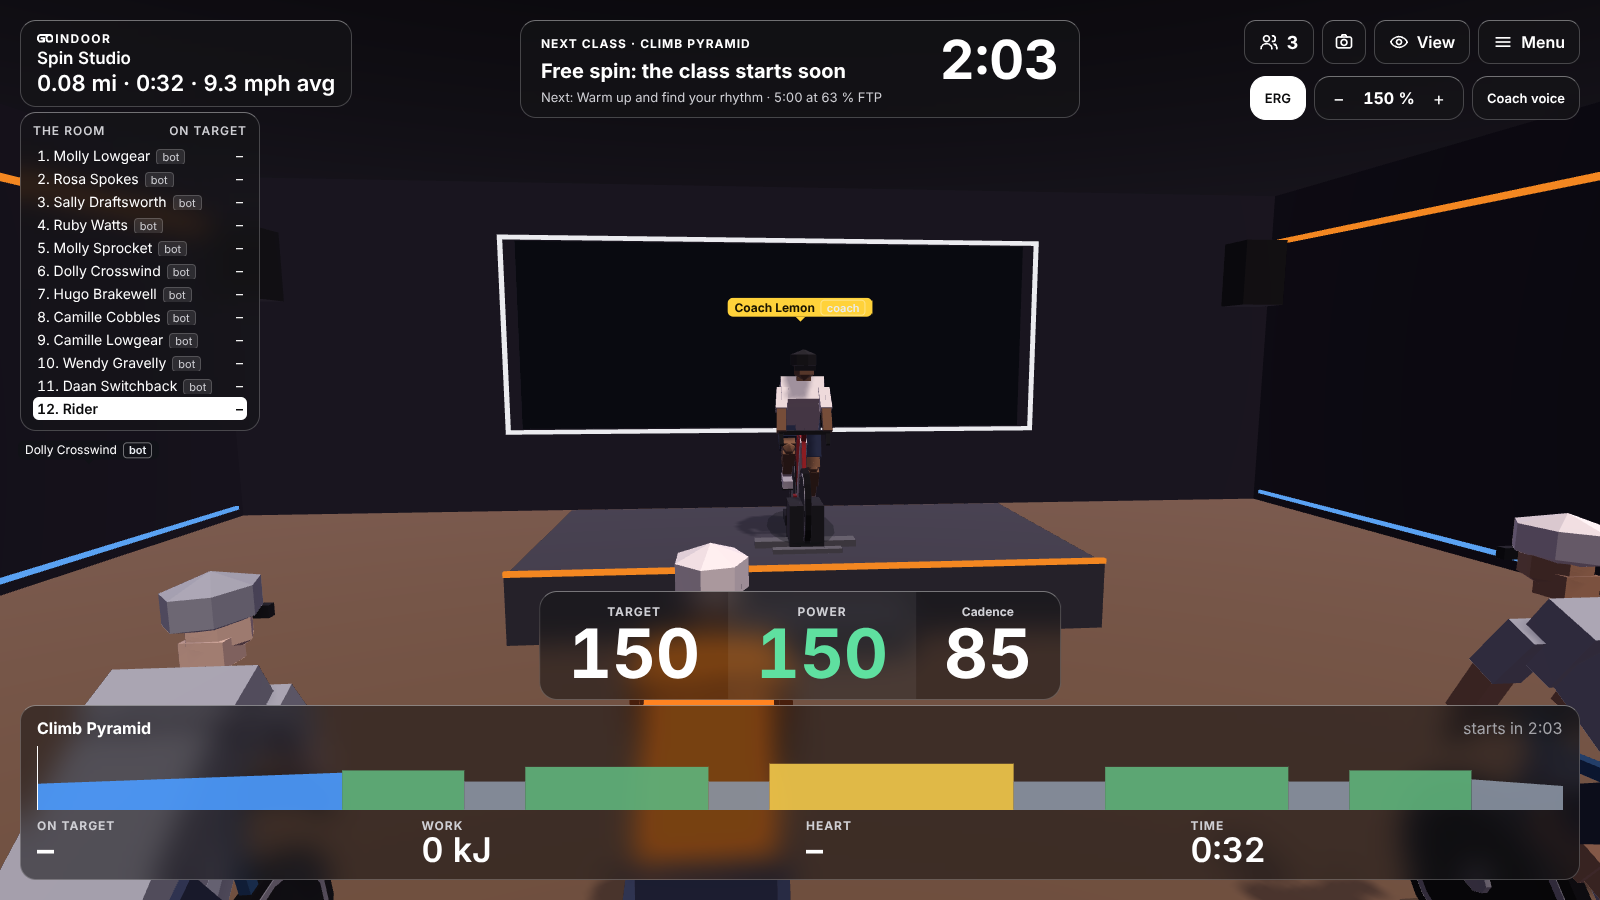
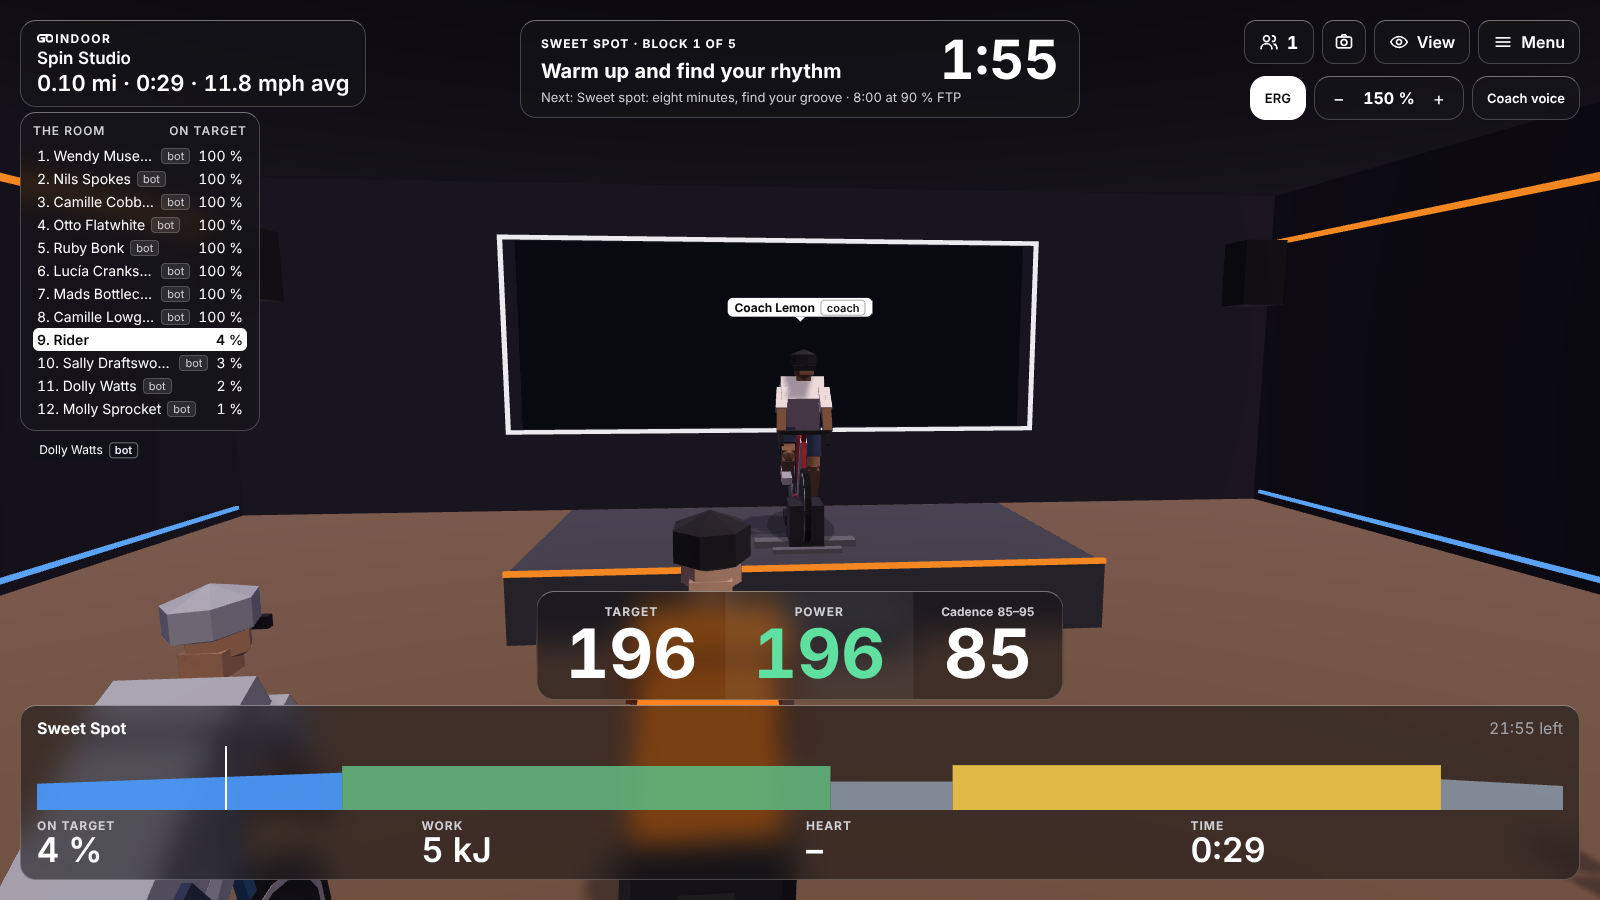
Fix review findings after the GOindoor and GD pass
- Landing page: the clone step says "cd GOwift" again (the rename left a
  placeholder behind).
- Android: move MainActivity to the goindoor package directory.
- Logo, GD monogram and icons are reserved (all rights reserved), not
  CC BY-SA: they are original and the GD monogram is the owner's mark.
  TRADEMARKS.md and the README alt text describe the current logo.
- Landing footer credits the OpenRadlr hero image (CC BY-SA 4.0).
- ADR 0016, the CHANGELOG and NOTICE say that docs written for OpenRadlr
  were kept with product names updated.
- Native app offline page: GD colours, no lemon.
- Last lemon and orange brand colours go: coach label, milestone banner,
  studio countdown (amber warning), start-screen glow, selected card.
- Text stays in its boxes: studio board names truncate without hiding
  the bot pill; the mobile HUD grade shrinks to fit; the start-screen
  lede is white over a darker edge so it reads against the sky.

Claude-Session: https://claude.ai/code/session_01NthyshZquKn5mgAUoJjjuJ

diff --git a/client/public/styles.css b/client/public/styles.css
@@ -159,9 +159,9 @@ kbd {
   z-index: -2;
   pointer-events: none;
   background:
-    radial-gradient(40% 35% at 25% 20%, rgba(255, 140, 50, 0.16), transparent 70%),
-    radial-gradient(45% 40% at 80% 15%, rgba(76, 195, 255, 0.12), transparent 70%),
-    radial-gradient(60% 50% at 50% 95%, rgba(22, 58, 78, 0.55), transparent 75%);
+    radial-gradient(40% 35% at 25% 20%, rgba(138, 138, 142, 0.16), transparent 70%),
+    radial-gradient(45% 40% at 80% 15%, rgba(107, 107, 112, 0.12), transparent 70%),
+    radial-gradient(60% 50% at 50% 95%, rgba(40, 40, 44, 0.55), transparent 75%);
   animation: dusk-drift 26s ease-in-out infinite alternate;
 }
 
@@ -188,8 +188,8 @@ kbd {
   position: absolute;
   inset: 0;
   background:
-    linear-gradient(180deg, rgba(15, 18, 22, 0.6) 0%, rgba(15, 18, 22, 0.05) 28%, rgba(15, 18, 22, 0.15) 55%, rgba(15, 18, 22, 0.88) 100%),
-    linear-gradient(90deg, rgba(15, 18, 22, 0.35) 0%, transparent 40%, transparent 60%, rgba(15, 18, 22, 0.55) 100%);
+    linear-gradient(180deg, rgba(11, 11, 12, 0.6) 0%, rgba(11, 11, 12, 0.05) 28%, rgba(11, 11, 12, 0.15) 55%, rgba(11, 11, 12, 0.88) 100%),
+    linear-gradient(90deg, rgba(11, 11, 12, 0.6) 0%, transparent 50%, transparent 60%, rgba(11, 11, 12, 0.55) 100%);
 }
 
 .start.world-ready .menu-world {
@@ -239,7 +239,7 @@ kbd {
 }
 
 .start.world-ready .lede {
-  color: #c9d1db;
+  color: var(--text);
 }
 
 .start.world-ready .route-card:hover {
@@ -247,7 +247,7 @@ kbd {
 }
 
 .start.world-ready .route-card[aria-pressed="true"] {
-  background: rgba(31, 26, 22, 0.9);
+  background: rgba(24, 24, 26, 0.9);
   border-color: var(--accent);
   box-shadow: 0 0 0 1px var(--accent) inset, 0 8px 30px rgba(255, 255, 255, 0.16);
 }
@@ -1887,7 +1887,7 @@ body.riding {
   color: #ff8a7a;
 }
 
-/* A personal milestone: a brand-green banner across the top for a few seconds. */
+/* A personal milestone: a white GD pill across the top for a few seconds. */
 .milestone-banner {
   position: absolute;
   top: 18%;
@@ -1897,8 +1897,8 @@ body.riding {
   margin: 0;
   padding: 12px 28px;
   border-radius: 999px;
-  background: linear-gradient(90deg, #ffd21a, #ffe774);
-  color: #1d1d20;
+  background: var(--accent);
+  color: var(--accent-text);
   font-size: clamp(18px, 3vw, 30px);
   font-weight: 800;
   text-align: center;
@@ -4112,9 +4112,14 @@ body.riding {
 }
 
 .label3d.coach {
-  --label-bg: #ffd23a;
-  color: #1a1400;
+  --label-bg: var(--accent);
+  color: var(--accent-text);
   font-weight: 700;
+}
+
+.label3d.coach .badge {
+  color: var(--accent-text);
+  border-color: rgba(11, 11, 12, 0.35);
 }
 
 .studio-cue {
@@ -4155,7 +4160,7 @@ body.riding {
 }
 
 .studio-countdown.soon {
-  color: #ffd23a;
+  color: var(--warning);
 }
 
 .studio-next {
@@ -4208,12 +4213,20 @@ body.riding {
 }
 
 .board-list .board-name {
+  display: flex;
+  align-items: center;
+  min-width: 0;
+}
+
+.board-list .board-text {
+  min-width: 0;
   overflow: hidden;
   text-overflow: ellipsis;
   white-space: nowrap;
 }
 
 .board-list .badge {
+  flex: none;
   margin-left: 6px;
 }
 
@@ -4693,7 +4706,7 @@ body:not(.riding)::after {
   }
 
   .num-l {
-    font-size: 28px;
+    font-size: clamp(22px, 6.5vw, 28px);
   }
 
   .num-m {

diff --git a/app/www/index.html b/app/www/index.html
@@ -5,17 +5,16 @@
     <meta name="viewport" content="width=device-width, initial-scale=1, viewport-fit=cover">
     <title>GOindoor</title>
     <style>
-      :root { color-scheme: light dark; --bg: #f6f4ec; --fg: #1d1d1b; --accent: #e8c547; }
-      @media (prefers-color-scheme: dark) { :root { --bg: #151514; --fg: #f1efe6; } }
+      :root { color-scheme: dark; --bg: #0b0b0c; --fg: #ffffff; --accent: #ffffff; }
       body { margin: 0; min-height: 100vh; display: grid; place-items: center; background: var(--bg); color: var(--fg);
-        font: 17px/1.5 -apple-system, system-ui, sans-serif; text-align: center; padding: 16px; box-sizing: border-box; }
-      button { font: inherit; font-weight: 600; padding: 12px 28px; border: 0; border-radius: 999px; background: var(--accent); color: #1d1d1b; }
+        font: 17px/1.5 Helvetica, "Helvetica Neue", Arial, sans-serif; text-align: center; padding: 16px; box-sizing: border-box; }
+      button { font: inherit; font-weight: 600; padding: 12px 28px; border: 0; border-radius: 999px; background: var(--accent); color: #0b0b0c; }
       p { max-width: 28em; }
     </style>
   </head>
   <body>
     <main>
-      <h1>🍋 GOindoor</h1>
+      <h1>GOindoor</h1>
       <p>The GOindoor server can't be reached right now. Check your internet connection, or whether your own server is running.</p>
       <button id="retry" type="button">Try again</button>
     </main>

diff --git a/client/public/js/main.js b/client/public/js/main.js
@@ -2424,7 +2424,9 @@ function updateStudioPanels() {
       ...board.map((row) => {
         const item = document.createElement("li");
         if (row.me) item.className = "me";
-        const name = Object.assign(document.createElement("span"), { className: "board-name", textContent: `${row.rank}. ${row.name}` });
+        // The name truncates on its own, so a long one never hides the bot pill.
+        const name = Object.assign(document.createElement("span"), { className: "board-name" });
+        name.append(Object.assign(document.createElement("span"), { className: "board-text", textContent: `${row.rank}. ${row.name}` }));
         if (row.isBot) name.append(Object.assign(document.createElement("span"), { className: "badge", textContent: t("panels.bot") }));
         item.append(name, Object.assign(document.createElement("span"), { textContent: row.onTarget }));
         return item;

diff --git a/ASSETS-LICENSE.md b/ASSETS-LICENSE.md
@@ -1,9 +1,10 @@
 # Artwork licence
 
 The code of GOindoor is licensed under the [GNU AGPL v3](LICENSE). The
-artwork is licensed separately, under the
+artwork is licensed separately: under the
 [Creative Commons Attribution-ShareAlike 4.0 International licence](https://creativecommons.org/licenses/by-sa/4.0/)
-(CC BY-SA 4.0).
+(CC BY-SA 4.0), except the logo and icons, which are reserved (see *Who made
+what*).
 
 ## What counts as artwork
 
@@ -14,17 +15,23 @@ The image files in:
 - `landing/public/` and `landing/src/assets/` (landing page images and icons)
 - `app/assets/` and the generated icons and splash screens under `app/android/`
   and `app/ios/`
-- `brand/` (the logo sources)
+- `brand/*.svg` (the logo sources)
 
 The 3D world, riders and vehicles are drawn by code in `client/public/js/`
 and fall under the AGPL like the rest of the code.
 
 ## Who made what
 
-- **GOindoor logo, icons, favicons, splash screens and brand mark**
-  (`brand/`, `docs/assets/goindoor-emblem.png`, `client/public/icons/`,
-  `landing/public/icons/`, `app/assets/` and the generated app icons):
-  © 2026 [rgvduarte](https://github.com/rgvduarte), CC BY-SA 4.0.
+- **GOindoor logo, the GD monogram, icons, favicons, splash screens and
+  brand mark** (`brand/*.svg`, `docs/assets/goindoor-emblem.png`,
+  `client/public/icons/`, `landing/public/icons/`, `app/assets/` and the app
+  icons and splash screens generated from them under `app/android/` and
+  `app/ios/`): © 2026 [rgvduarte](https://github.com/rgvduarte). **All rights
+  reserved, not under CC BY-SA.** They are original works, not based on
+  OpenRadlr artwork; the GD monogram is rgvduarte's personal mark. You may
+  pass them on unchanged as part of GOindoor, but not use or adapt them for
+  anything else. A fork replaces them with its own (see
+  [TRADEMARKS.md](TRADEMARKS.md)).
 - **Screenshots of GOindoor** (`docs/assets/screenshot-*.png`,
   `landing/src/assets/ride.png`, `landing/src/assets/studio.png`):
   © 2026 rgvduarte, CC BY-SA 4.0. They show the 3D world drawn by the
@@ -38,7 +45,7 @@ and fall under the AGPL like the rest of the code.
 
 ## What you may do
 
-Use, copy, change and share the artwork, also commercially and in forks, as
+Use, copy, change and share the CC BY-SA artwork, also commercially and in forks, as
 long as you:
 
 - **credit it** as listed above ("Artwork © rgvduarte (GOindoor), CC BY-SA 4.0"

diff --git a/TRADEMARKS.md b/TRADEMARKS.md
@@ -1,11 +1,12 @@
 # Name and logo
 
-"GOindoor" and the GOindoor logo (the green G-shaped wheel with speed lines)
-identify this project, owned and developed by
+"GOindoor", the GOindoor logo (the white GD monogram and the GOindoor
+wordmark, whose "GO" is drawn in the monogram's letterforms) and the GD
+monogram itself identify this project, owned and developed by
 [rgvduarte](https://github.com/rgvduarte), and its official site at
 <https://rgvduarte.github.io/GOwift/>. The code licence (AGPL) and the artwork
-licence (CC BY-SA) give you broad rights to the code and the image files; they
-do not give you the right to use the name or logo as the name or logo of your
+licence (CC BY-SA, for the artwork it covers) give you broad rights to the code
+and those image files; they do not give you the right to use the name or logo as the name or logo of your
 own product or service.
 
 ## Fine without asking

diff --git a/NOTICE.md b/NOTICE.md
@@ -23,8 +23,10 @@ The full OpenRadlr history is part of this repository, so `git log` and
 
 - New name, identifiers and branding: the product, crates, environment
   variables (`GOINDOOR_*`), metrics, app IDs and storage keys are called GOindoor.
-- New logo, icons and colours. The OpenRadlr name and lemon logo are not used
-  as GOindoor's brand ([TRADEMARKS.md](TRADEMARKS.md)).
+- New logo, icons and colours (the GD design system). The OpenRadlr name and
+  lemon logo are not used as GOindoor's brand ([TRADEMARKS.md](TRADEMARKS.md)).
+- Documentation written for OpenRadlr (the ADRs, the CHANGELOG up to 0.1.0)
+  was kept, with product names updated.
 - A GitHub Pages site for the landing page.
 
 GOindoor is not affiliated with or endorsed by the OpenRadlr project.

diff --git a/docs/adr/0016-agpl-licence.md b/docs/adr/0016-agpl-licence.md
@@ -2,6 +2,11 @@
 
 Date: 2026-10-23 · Status: accepted
 
+> Decided by the OpenRadlr project before the fork
+> ([Lethonium/OpenRadlr#12](https://github.com/Lethonium/OpenRadlr/issues/12));
+> GOindoor inherits it, with product names updated. GOindoor's own logo and
+> icons are reserved instead of CC BY-SA (see ASSETS-LICENSE.md).
+
 ## Context
 
 GOindoor is going public (#12). It is a game server that anyone can host,

diff --git a/CHANGELOG.md b/CHANGELOG.md
@@ -9,6 +9,8 @@ GOindoor is a fork of [OpenRadlr](https://github.com/Lethonium/OpenRadlr)
 ([NOTICE.md](NOTICE.md)). The releases up to and including 0.1.0 below are
 OpenRadlr's; their issue and pull request numbers (#12, #64, …) refer to
 [Lethonium/OpenRadlr](https://github.com/Lethonium/OpenRadlr/issues).
+Product, variable and metric names in those entries were updated to
+GOindoor's.
 
 ## 0.1.0 (2026-11-11)
 

diff --git a/README.md b/README.md
@@ -1,6 +1,6 @@
 <p align="center">
   <img src="docs/assets/goindoor-emblem.png" width="220"
-       alt="GOindoor logo: a green wheel shaped like a G, with speed lines">
+       alt="GOindoor logo: the white GD monogram above the GOindoor wordmark on a dark glass card">
 </p>
 
 <h1 align="center">GOindoor</h1>
